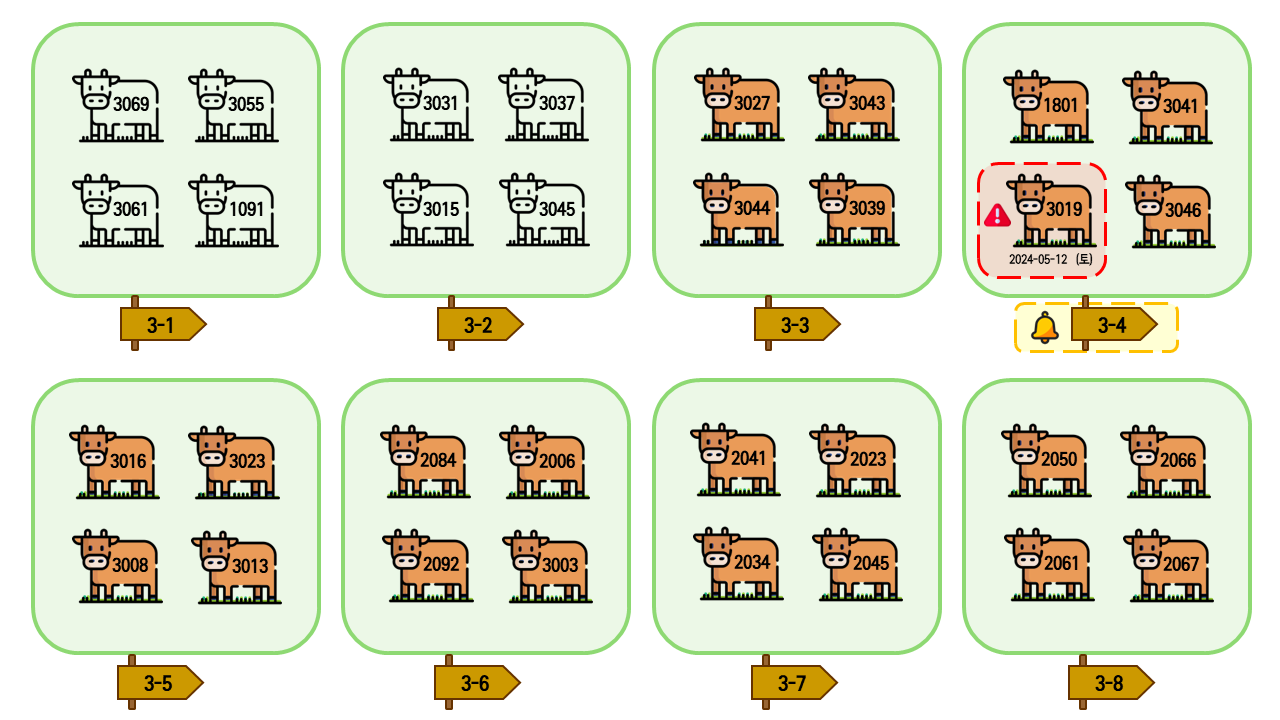
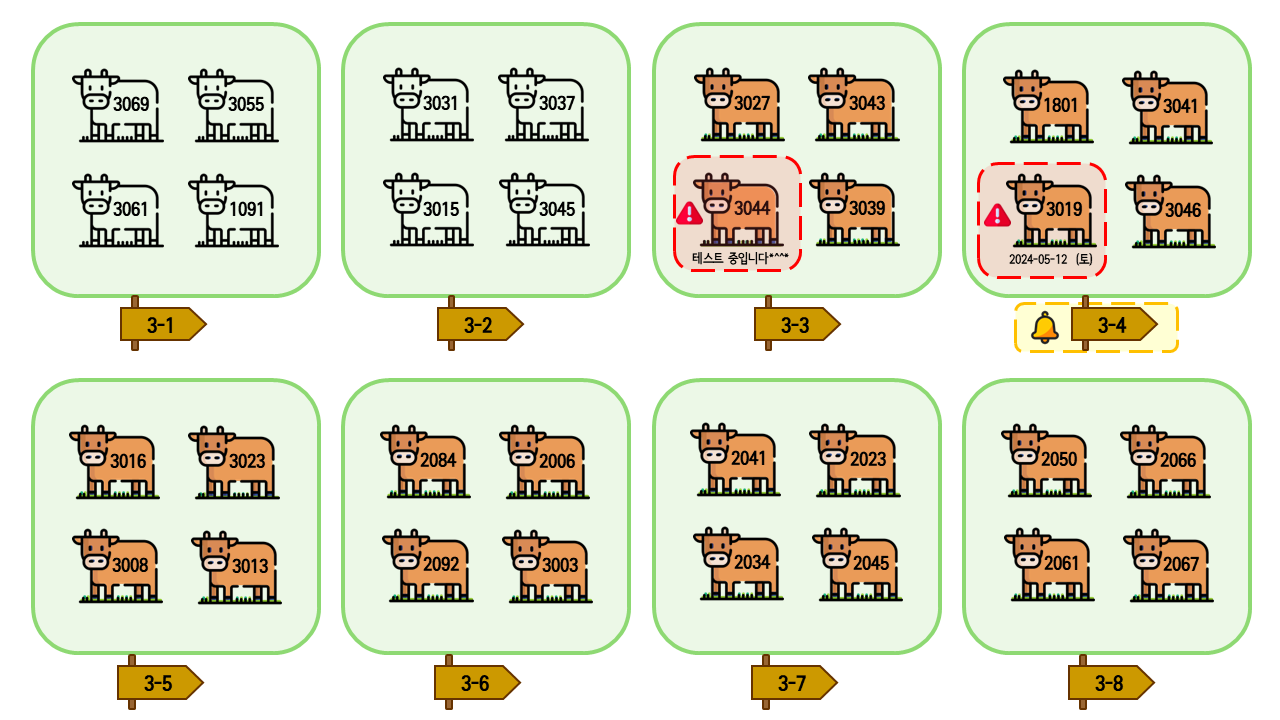
Add files via upload

Changed region(s): [[0.5, 0.2139, 0.625, 0.3972]]

diff --git a/cowsample/index.html b/cowsample/index.html
@@ -7,14 +7,15 @@
         #imageContainer img {
             max-width: 100%; /* 이미지가 화면을 넘어가지 않도록 최대 너비를 제한합니다 */
         }
-        #img0, #img1, #img2 {
+        #img1, #img2, #img3 {
             display: none; /* 초기에는 모든 이미지를 숨깁니다 */
             border: 5px solid rgb(42, 209, 42); /* 초록색 테두리를 추가합니다 */
         }
         #img0 {
             display: block; /* 초기 화면에 기본 이미지를 표시합니다 */
+            border: 5px solid rgb(42, 209, 42);
         }
-        button {
+        #button1, #button2, #button3 {
             padding: 10px 20px; /* 버튼의 패딩을 조절하여 크기를 늘립니다 */
             font-size: 16px; /* 폰트 크기를 늘립니다 */
             background-color: rgb(62, 98, 227); /* 버튼의 배경색을ssssssss 초록색으로 설정합니다 */
@@ -66,13 +67,42 @@
             background-color: rgba(255, 255, 255, 0.8);
             font-size: 12px;
         }
+        .image-button {
+        border: none; /* Removes the default border */
+        cursor: pointer; /* Changes the cursor to a pointer to indicate it's clickable */
+        background-size: cover; /* Ensures the image covers the entire button */
+        position: relative; /* Needed to position the text absolutely within the button */
+        width: 100px; /* Set the width of the button */
+        height: 100px; /* Set the height of the button */
+        display: inline-block; /* Allows the button to have a width and height */
+        overflow: hidden; /* Ensures no content spills outside the button */
+        }
+        .button-text {
+        position: absolute; /* Positions the text over the button */
+        width: 100%; /* Ensures the text spans the entire width of the button */
+        text-align: left; /* Centers the text horizontally */
+        transform: translateX(-20%);
+        top: 50%; /* Moves the text to the middle vertically */
+        transform: translateY(-50%); /* Adjusts the position of the text to truly center it */
+        font-size: 20px; /* Sets the font size of the text */
+        color: rgb(210, 34, 34); /* Sets the color of the text */
+        font-weight: bold; /* Makes the text bold */
+        z-index: 1; /* Ensures the text is above the image */
+        }
+        #cow1 {
+        position: absolute; /* Makes image cover the entire button */
+        top: 0; /* Aligns image to the top */
+        left: 3%; /* Aligns image to the left */
+        width: 100%; /* Full width of the button */
+        height: 100%; /* Full height of the button */
+        }
 
     </style>
 </head>
 <body>
     <h1>새봄농장 3동 개체 발정 및 건강 상태</h1>
-    <div id="updateInfo">최근 업데이트 : 2024-05-13 17:30:00</div>
-
+    <div id="updateInfo">최근 업데이트 : 2024-05-14 18:30:00</div>
+    <div> </div>
     <button id="button1">발정 알림</button>
     <button id="button2">건강 알림</button>
     <button id="button3">Reset</button>
@@ -82,15 +112,26 @@
         <img id="img1" src="fig1.png" alt="첫 번째 이미지">
         <img id="img2" src="fig2.png" alt="두 번째 이미지">
     </div>
-
+    <div> </div>
     <p class="red-text"> 발정 개체의 자세한 정보는 클릭!</p>
-    <div class="cow-container">
-        <!-- Each cow box is a button -->
-        <div class="cow-box" onclick="showImage()">3019</div>
-        <!-- Add more cow boxes as needed -->
+    <div> </div>
+    <button id="imbutton" class="image-button" >
+        <img id="cow1" src="cow1.png" alt="이미지 버튼">
+        <span class="button-text">3044</span>
+    </button>
+    <p > </p>
+
+    <!-- <div class="cow-container">
+        Each cow box is a button -->
+        <!-- <div class="cow-box" onclick="showImage()">3019</div>
+        <div class="cow-box" onclick="showImage2()">3019</div>
+        Add more cow boxes as needed -->
+    <div> </div>
+
+    <div id="imageContainer">
+        <img id="img3" src="heat773.png" alt="세 번째 이미지">
     </div>
 
-    <img id="selectedImage" src="fig4.png" alt="Selected Cow">
 
 
     <script>
@@ -110,12 +151,17 @@
             document.getElementById('img1').style.display = 'none';  // 모든 이미지를 숨김
             document.getElementById('img2').style.display = 'none';
             document.getElementById('img0').style.display = 'block'; // 기본 이미지를 다시 표시
+            document.getElementById('img3').style.display = 'none'; 
         };
 
-        function showImage() {
-            var image = document.getElementById('selectedImage');
-            image.style.display = 'block'; // Show the fig.png image when any cow is clicked
+        document.getElementById('imbutton').onclick = function() {
+            // var image = document.getElementById('imbutton');
+            document.getElementById('img3').style.display = 'block'; 
         }
+        // function showImage2() {
+        //     var image = document.getElementById('selectedImage2');
+        //     image.style.display = 'block';
+        // }
     </script>
 </body>
 </html>
